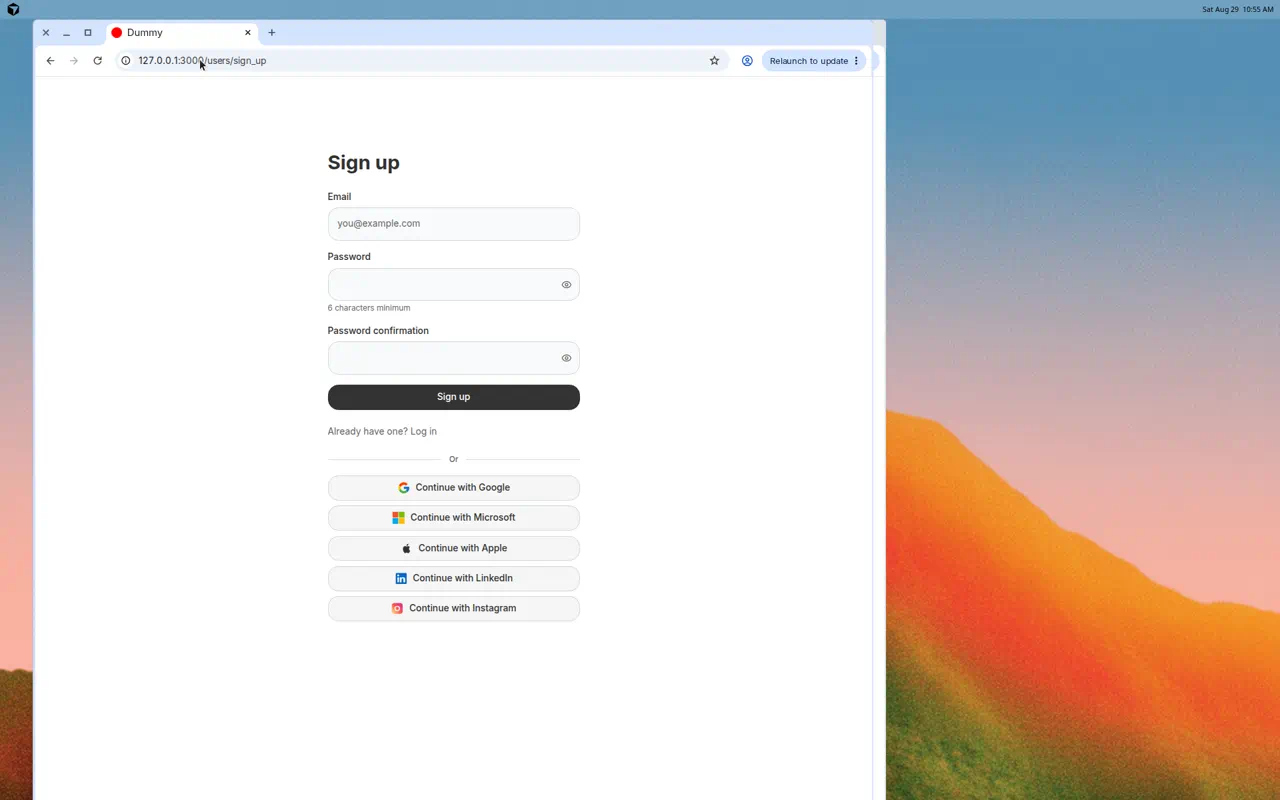
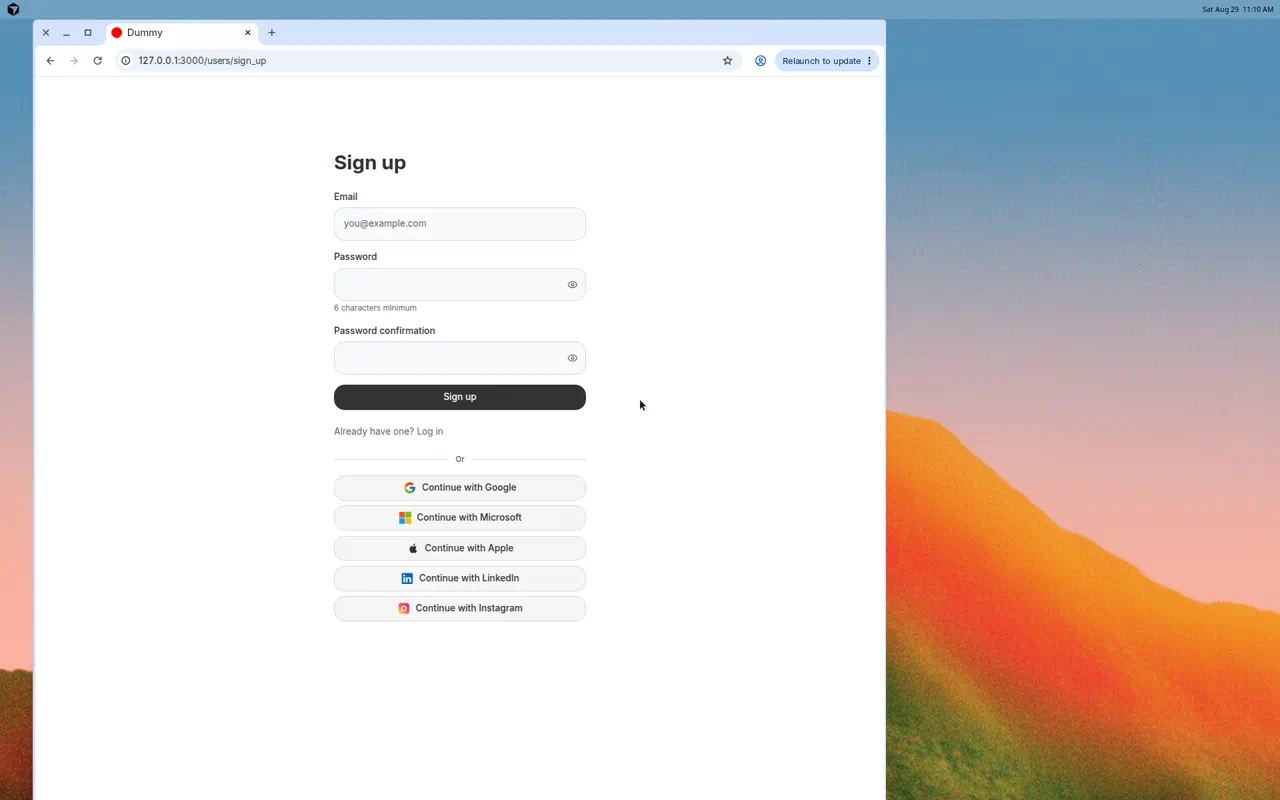
Remove dummy login seed credential Badge
Drop the Default admin@admin.com / Password Badge from Devise
sessions#new. Recapture login/signup review stills.

diff --git a/test/dummy/test/integration/login_page_test.rb b/test/dummy/test/integration/login_page_test.rb
@@ -23,7 +23,7 @@ class LoginPageTest < ActionDispatch::IntegrationTest
     assert_includes response.body, "Don't have an account?"
     assert_includes response.body, "Continue with Google"
     assert_match(/\bOr\b/, response.body)
-    assert_includes response.body, "Default: admin@admin.com / Password"
+    refute_includes response.body, "Default: admin@admin.com / Password"
   end
 
   test "login title follows RecordingStudioUser.config.login_title" do

diff --git a/test/dummy/README.md b/test/dummy/README.md
@@ -6,7 +6,7 @@ This Rails application demonstrates RecordingStudioUser in a host application.
 - This gem owns the shared **People** root and **Profile** snapshots (`user_id` on Profile).
 - One profile image is an Attachable child of the Profile recording. Dummy mounts Attachable and Active Storage.
 - Workspace remains the host-owned bucket. Access-controlled, read-only reporting on sitewide users is still mounted.
-- Signed-in pages use Recording Studio's default layout (`RecordingStudio::UsesDefaultLayout`). Devise keeps `layouts/application` with `html data-theme="rounded"`. Dummy does not own `recording_studio/default_layout`. A `recording_studio/_default_layout_head` hook sets the same theme on signed-in pages so Flatpack primary tokens resolve on `:root`. Login and sign up viewport-center with Tailwind (`min-h-dvh flex items-center justify-center`, inner `max-w-sm w-full`): `login_title` (default Welcome back) / Sign up → fields → primary button → cross-link → Divider `Or` → full-width Continue-with buttons (provider logos via `icon:`). No Card, no Remember me, no Flatpack Grid centering. Login seed hint sits under the form. OmniAuth test mode mocks Google, Microsoft, Apple, LinkedIn, and Instagram. They are not a Users product registration flow.
+- Signed-in pages use Recording Studio's default layout (`RecordingStudio::UsesDefaultLayout`). Devise keeps `layouts/application` with `html data-theme="rounded"`. Dummy does not own `recording_studio/default_layout`. A `recording_studio/_default_layout_head` hook sets the same theme on signed-in pages so Flatpack primary tokens resolve on `:root`. Login and sign up viewport-center with Tailwind (`min-h-dvh flex items-center justify-center`, inner `max-w-sm w-full`): `login_title` (default Welcome back) / Sign up → fields → primary button → cross-link → Divider `Or` → full-width Continue-with buttons (provider logos via `icon:`). No Card, no Remember me, no Flatpack Grid centering, no seed Badge on login. OmniAuth test mode mocks Google, Microsoft, Apple, LinkedIn, and Instagram. They are not a Users product registration flow.
 - Profile show/edit are PageNav chrome only. The right slot stays empty. There is no Access control, sidebar Sign out, or Root Switchable on those screens. Show puts Edit and Sign-in methods in the page title and one elevated identity Card (no `page_nav_back_*`; Flatpack PageNav may still paint history.back). A two-column Grid wraps the Card only (desktop width cap). Inside the card, Avatar sits above unlabeled name, email, and time zone in one column. Empty photos use profile-name initials (never the word “Avatar”). Edit hosts a `profile-photo` Turbo frame with Flatpack Avatar (`attachment_preview_url`, `size: :"2xl"`, name/alt from the profile) plus Attachable `render_attachment_file_button` for Add/Change — photo + name + timezone + Update/Cancel only. Connect / Disconnect live on `/recording_studio_users/profile/sign-in-methods` as matching Card + List rows with the configured provider logos. Dummy pins Flatpack `v0.1.143`. An `mb-8` wrapper around the frame separates the photo row from First name. Edit puts the form in one cell of a two-column Flatpack Grid (the other cell stays empty) so fields do not stretch full-bleed on a wide screen. Each field is still its own full-width row. Update profile and Cancel are separate Flatpack buttons, not a ButtonGroup. Edit subtitle is the profile name (not `large_subtitle`).
 - Review screenshots for Google OAuth live under `docs/review/google-oauth/`.
 - Dummy still overrides Attachable's leftover attachment show so that gem's in-view PageNav is not stacked on top of core's. Profile screens do not link there.

diff --git a/README.md b/README.md
@@ -229,7 +229,7 @@ The host owns administration and must create its admin recordable/root, mount Re
 
 ## Dummy app
 
-The dummy keeps Devise login at `/users/sign_in` and sign up at `/users/sign_up`. Both viewport-center with ordinary Tailwind (`min-h-dvh flex items-center justify-center`, inner `max-w-sm w-full` — no Card, no Flatpack Grid centering): `login_title` (default **Welcome back**) / **Sign up**, fields, primary Sign in / Sign up, cross-link, Flatpack Divider `Or`, then full-width **Continue with {Provider}** secondary buttons for every configured OmniAuth provider — not a Users product registration flow. Login does not show Remember me (Devise rememberable may stay on). Sign-up password confirmation stays host-configurable. The login seed hint sits under the form. OmniAuth runs in test mode with mocks for Google, Microsoft, Apple, LinkedIn, and Instagram so CI and screenshots do not need live apps. Signed-in pages use core `recording_studio/default_layout` via `RecordingStudio::UsesDefaultLayout` (PageNav back/close). Devise pages keep `layouts/application` with `html data-theme="rounded"`. Dummy does not copy or override core's default layout. Core puts `data-theme="rounded"` on `body`; Flatpack named-theme tokens resolve on `html` / `:root`, so dummy's `recording_studio/_default_layout_head` sets `document.documentElement.dataset.theme` to `rounded` so primary buttons inherit charcoal, not `:root` blue. Dummy pins Flatpack `v0.1.143`.
+The dummy keeps Devise login at `/users/sign_in` and sign up at `/users/sign_up`. Both viewport-center with ordinary Tailwind (`min-h-dvh flex items-center justify-center`, inner `max-w-sm w-full` — no Card, no Flatpack Grid centering): `login_title` (default **Welcome back**) / **Sign up**, fields, primary Sign in / Sign up, cross-link, Flatpack Divider `Or`, then full-width **Continue with {Provider}** secondary buttons for every configured OmniAuth provider — not a Users product registration flow. Login does not show Remember me (Devise rememberable may stay on). Sign-up password confirmation stays host-configurable. OmniAuth runs in test mode with mocks for Google, Microsoft, Apple, LinkedIn, and Instagram so CI and screenshots do not need live apps. Signed-in pages use core `recording_studio/default_layout` via `RecordingStudio::UsesDefaultLayout` (PageNav back/close). Devise pages keep `layouts/application` with `html data-theme="rounded"`. Dummy does not copy or override core's default layout. Core puts `data-theme="rounded"` on `body`; Flatpack named-theme tokens resolve on `html` / `:root`, so dummy's `recording_studio/_default_layout_head` sets `document.documentElement.dataset.theme` to `rounded` so primary buttons inherit charcoal, not `:root` blue. Dummy pins Flatpack `v0.1.143`.
 
 Profile show/edit are that chrome only — no sidebar, Sign out, Root Switchable, or Access slot. Show is Avatar plus Edit and Sign-in methods at `:xl`. Edit hosts a `profile-photo` Turbo frame at `:"2xl"` (Flatpack `v0.1.143`) with Attachable's file button for Add/Change. Connect / Disconnect live on `/recording_studio_users/profile/sign-in-methods`. Dummy still mounts Attachable and keeps a leftover attachment-show override (one core PageNav) if that URL is opened directly. Seeded accounts include:
 

diff --git a/CHANGELOG.md b/CHANGELOG.md
@@ -23,7 +23,7 @@ and this project adheres to [Semantic Versioning](https://semver.org/spec/v2.0.0
 ### Changed
 - Host `devise_for` must route OmniAuth callbacks to Users: `controllers: { omniauth_callbacks: "recording_studio_user/omniauth_callbacks" }`. ProfiledUser adds `:omniauthable` when providers are present and sets `password_required?` false while an identity exists.
 - Migrations generator also copies the identities table.
-- Dummy Devise login and sign-up use ordinary Tailwind viewport centering (`min-h-dvh flex items-center justify-center`, inner `max-w-sm w-full`) without a Card: title → fields → primary button → cross-link → `Divider` (`label: "Or"`) → full-width secondary Continue-with buttons (provider logo via `icon:`). Login omits Remember me. Seed hint sits under the login form. Requires Flatpack `~> 0.1.143` (tagged `v0.1.143`, includes Divider). Button `icon:` SVG logos use a small engine shim until Flatpack Button mirrors List::Item.
+- Dummy Devise login and sign-up use ordinary Tailwind viewport centering (`min-h-dvh flex items-center justify-center`, inner `max-w-sm w-full`) without a Card: title → fields → primary button → cross-link → `Divider` (`label: "Or"`) → full-width secondary Continue-with buttons (provider logo via `icon:`). Login omits Remember me and the seed credential Badge. Requires Flatpack `~> 0.1.143` (tagged `v0.1.143`, includes Divider). Button `icon:` SVG logos use a small engine shim until Flatpack Button mirrors List::Item.
 
 ### Upgrade notes
 - Bump to `0.6.0`. Requires Flatpack `~> 0.1.143` (git tag `v0.1.143`).
